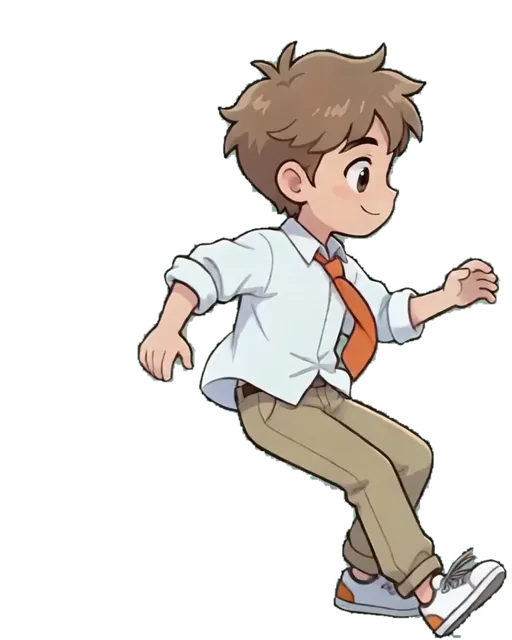
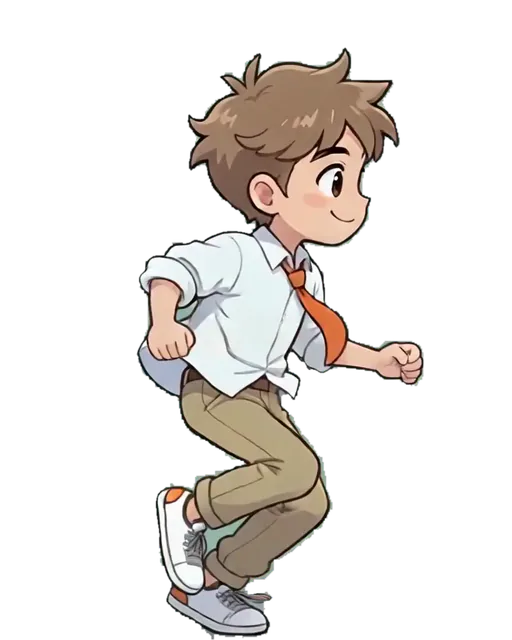
art(office): low forward slides for 고도약/유행운

diff --git a/public-office/art/SOURCES.md b/public-office/art/SOURCES.md
@@ -295,3 +295,5 @@ Processing (`vkey.py`, `vnorm.py` in the job tmp dir): 24 fps frames; mint backg
 | `hero-bunny-hit1..4` | a small comic hit reaction seen strictly from the side: the head jerks back, the body leans backward off balance for a moment with arms flailing, little stars circle above the head, then the character catches balance and resumes the running pose. The character's face, nose and eyes ALWAYS point to the RIGHT edge in profile for the entire clip; the body never rotates toward the viewer; we never see the front of the face. (2nd try; 1st turned to camera) | 29,37,45,53 |
 
 `hero-{bunny,robot}-slide.webp` = copy of the new `slide4`.
+
+- Slides redone (3rd clip each, same Seedance 2.0 Mini settings), action: runs two steps then drops into a fast low baseball slide / sliding tackle toward the RIGHT: body leaning far BACK, the front leg extended straight FORWARD to the right along the floor, the other leg bent under, one hand trailing on the floor behind, dust kicking up, sliding forward with momentum and staying low in that slide pose. Dynamic motion, hair and clothes blown back. Not sitting still, not crawling. — `hero-robot-slide1..4` frames 41,45,57,73; `hero-bunny-slide1..4` frames 57,61,69,85 (with dust, kept as part of the sprite); `hero-{bunny,robot}-slide.webp` = new slide4.
